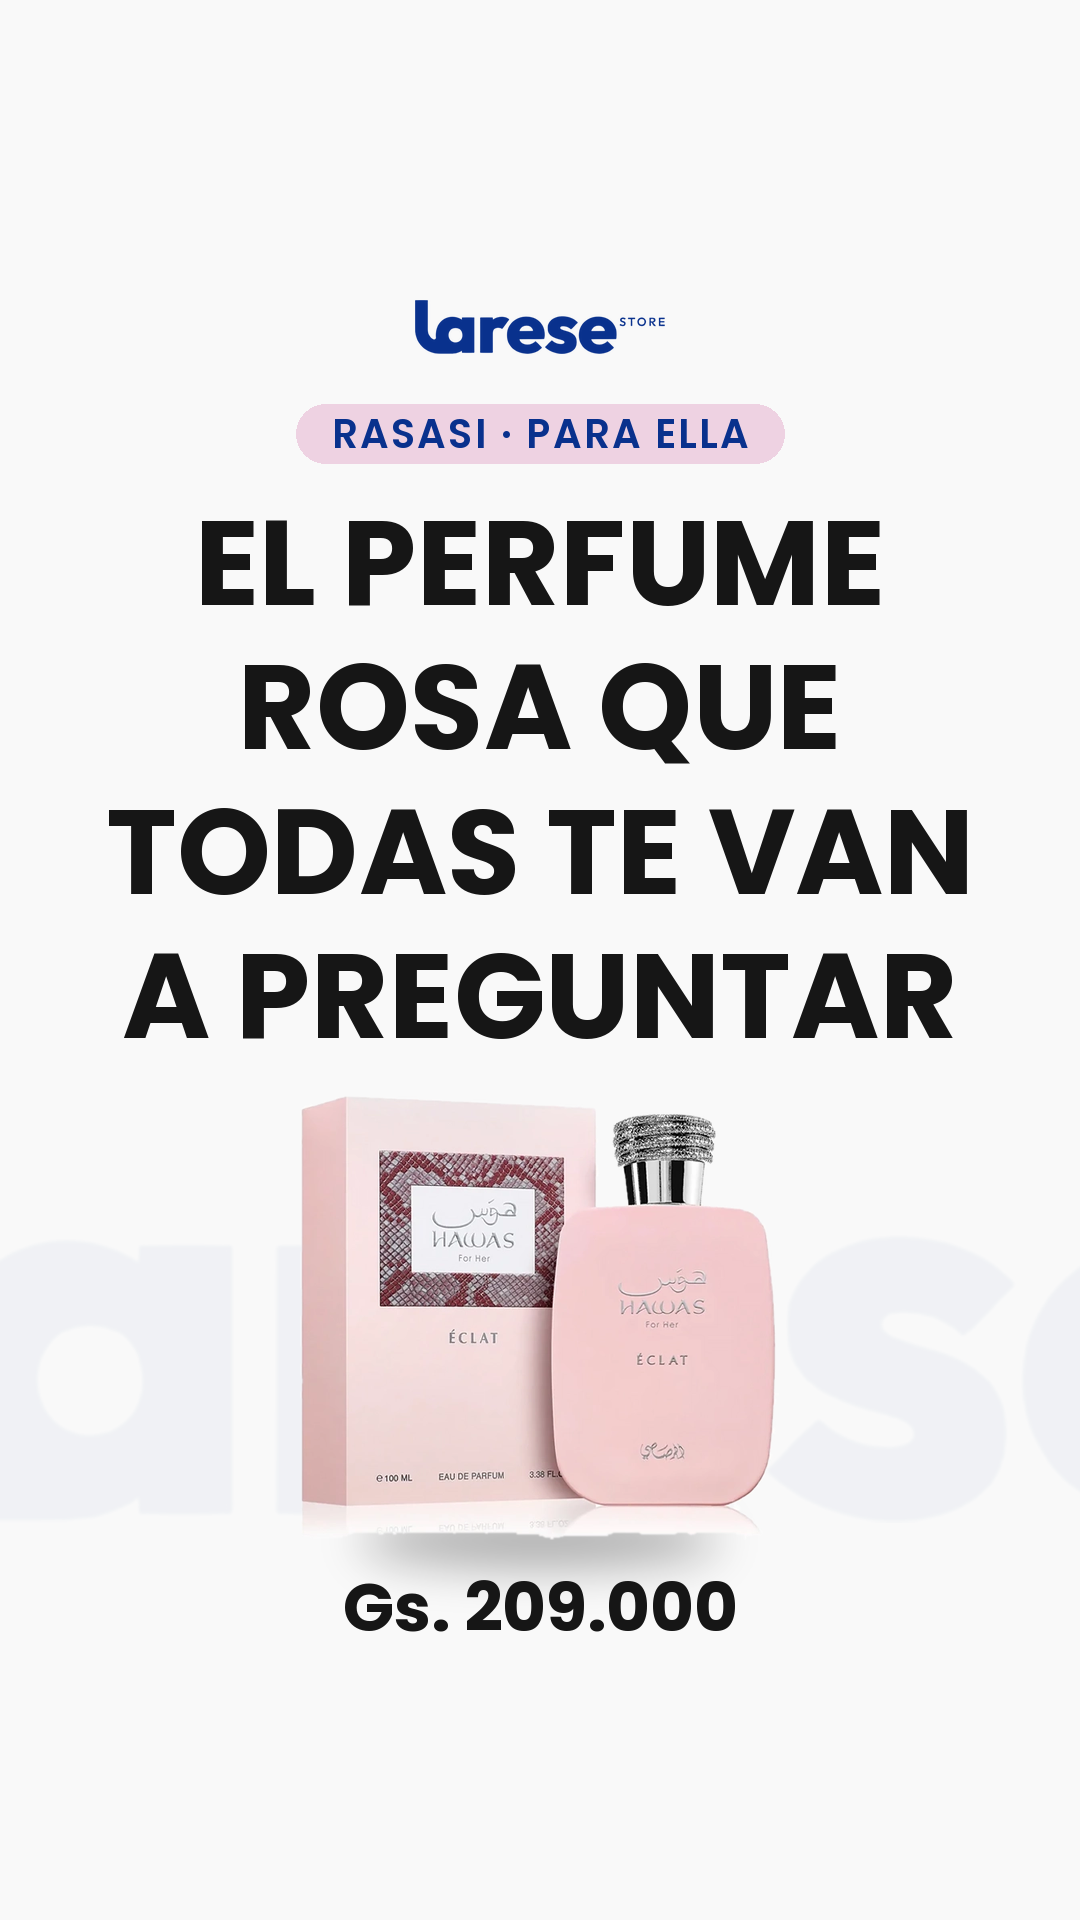
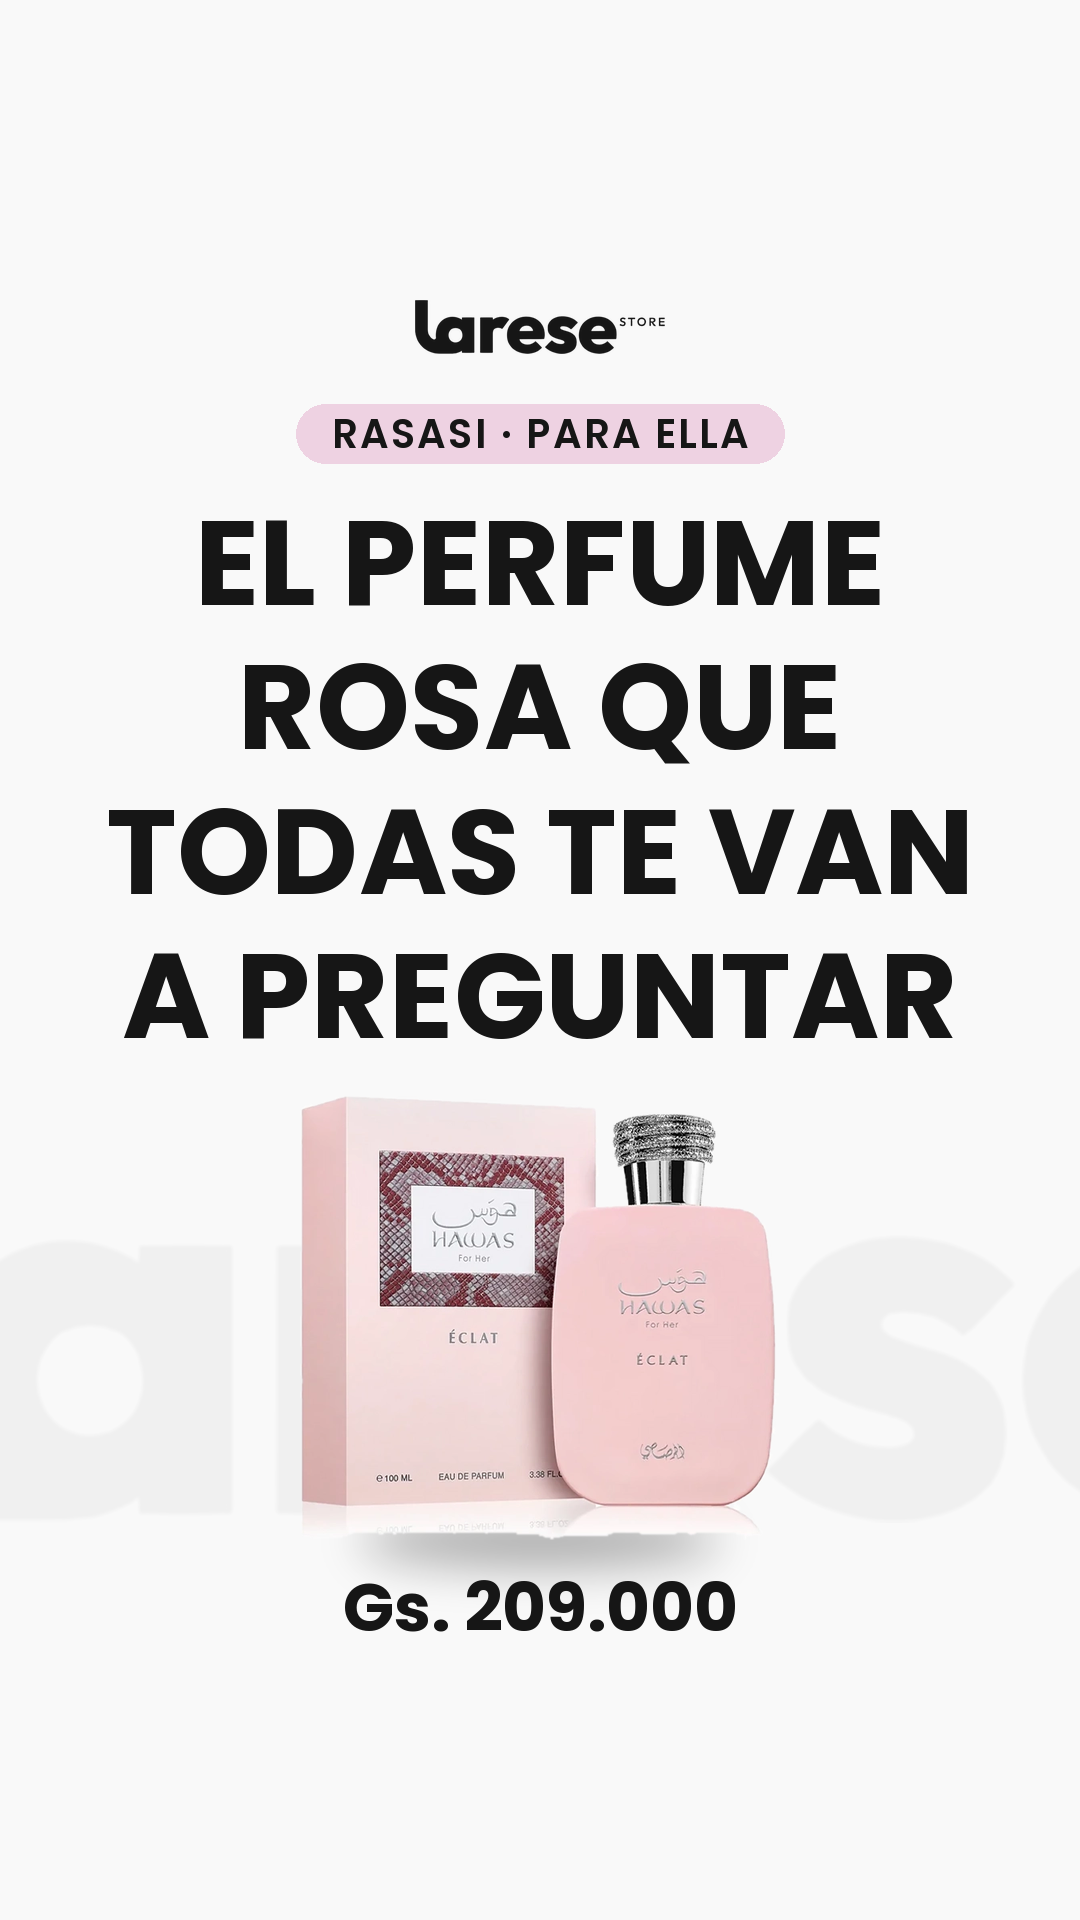
Add 'rosa' palette (black + Ballerina, no blue) and use it for Hawas Éclat
Claude-Session: https://claude.ai/code/session_01DnzkNPbSXQQMqRqh5ZzW49

Changed region(s): [[0.4889, 0.2188, 0.7028, 0.25], [0.3667, 0.1562, 0.5806, 0.1875], [0.3056, 0.2188, 0.4583, 0.25]]

diff --git a/herramientas/pieza-fondo-blanco/scripts/crear_pieza.py b/herramientas/pieza-fondo-blanco/scripts/crear_pieza.py
@@ -28,7 +28,7 @@ Spec (JSON). Solo "formato" y "titulo" son obligatorios:
   "color": "#D4848C",                     # opcional: fuerza el color de fondo
   "categoria": "perfume",                 # perfume | joya | maquillaje | cosmetico | electronica
   "cta": "¡Pedí el tuyo!",                # texto del botón
-  "paleta": "tienda",                     # "tienda" (azul y rosa) o "promo" (negro y rojo naranja)
+  "paleta": "tienda",                     # "tienda" (azul y rosa), "rosa" (negro y rosa) o "promo" (negro y rojo naranja)
   "gancho": "...",                        # solo portada: frase grande en lugar del título
   "slides": [ {...}, {...} ]              # solo carrusel: un spec de post por slide
 }
@@ -70,6 +70,9 @@ PALETAS = {
                    ROSA=(238, 210, 226), NEGRO=(22, 22, 22), ETI_TEXTO=(9, 49, 141)),
     "promo": dict(FONDO=(249, 249, 249), TEXTO=(40, 40, 43), GRIS=(110, 110, 114), ACENTO=(40, 40, 43),
                   ROSA=(255, 66, 0), NEGRO=(40, 40, 43), ETI_TEXTO=(255, 255, 255)),
+    # "rosa": la de la tienda sin el azul: negro + Ballerina #EED2E2 sobre Off-White #F9F9F9.
+    "rosa": dict(FONDO=(249, 249, 249), TEXTO=(22, 22, 22), GRIS=(105, 105, 105), ACENTO=(22, 22, 22),
+                 ROSA=(238, 210, 226), NEGRO=(22, 22, 22), ETI_TEXTO=(22, 22, 22)),
 }
 
 
